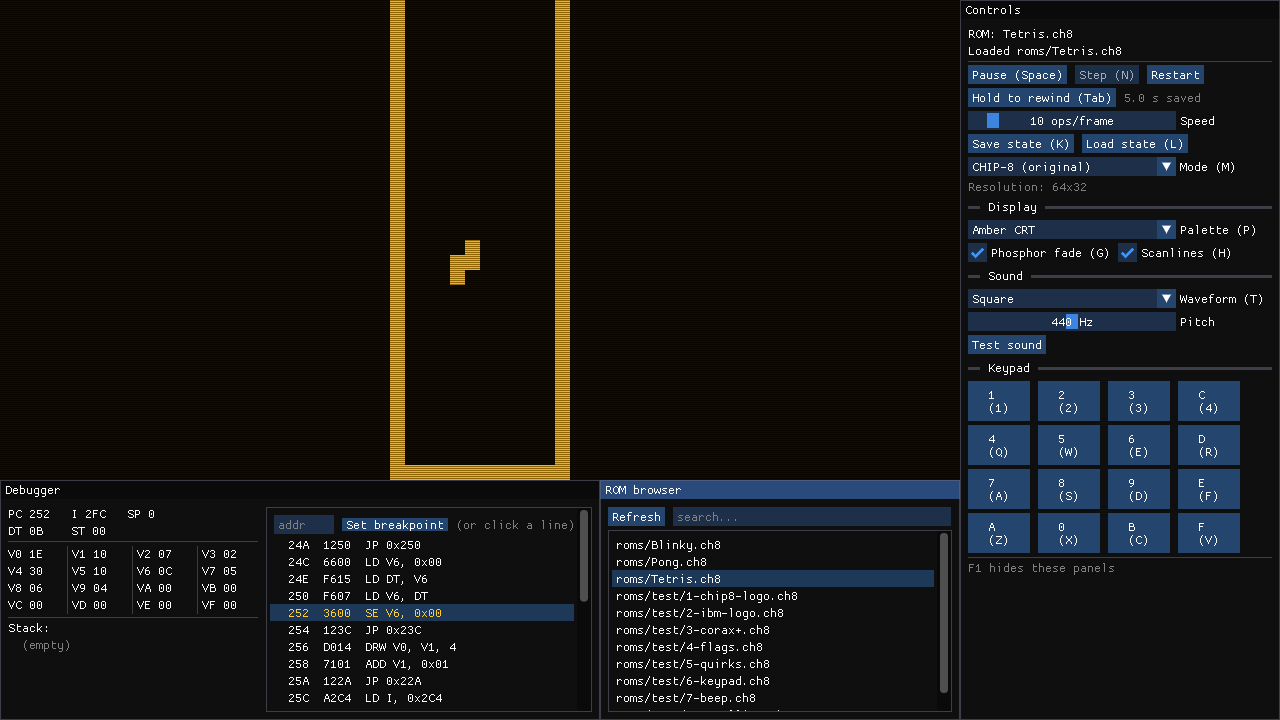
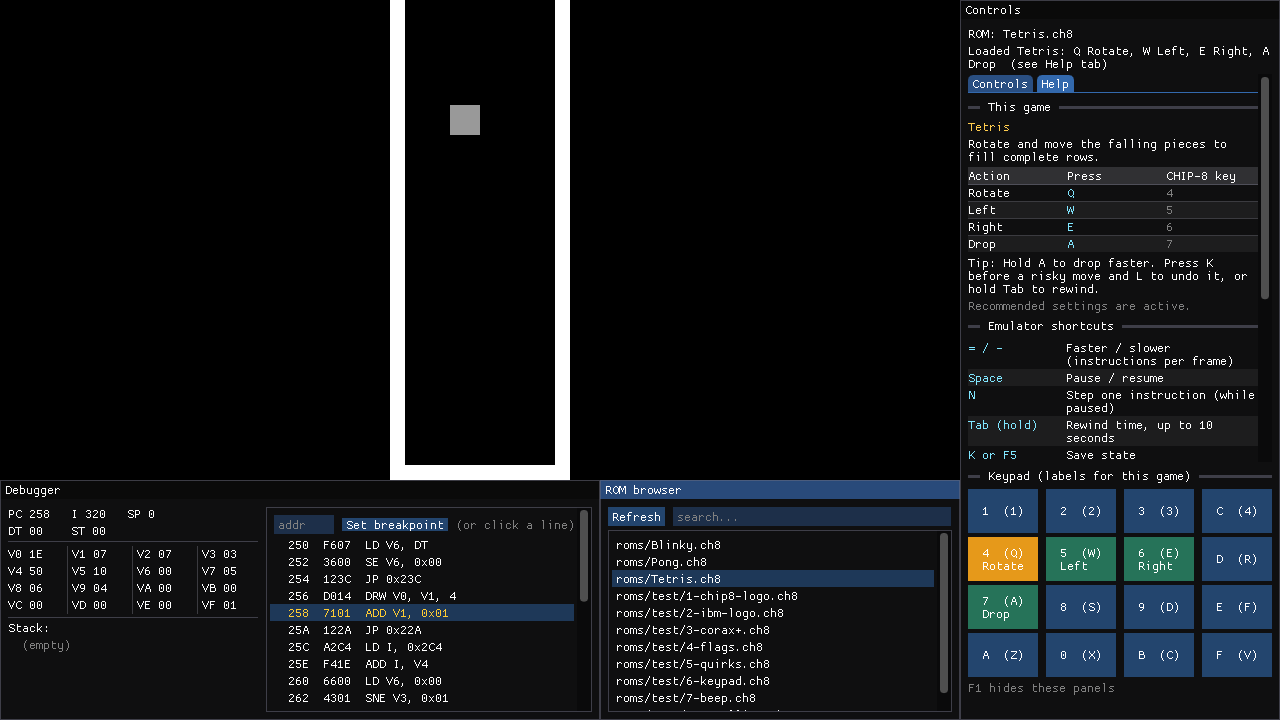
docs: document Help tab, update screenshot

diff --git a/README.md b/README.md
@@ -9,7 +9,7 @@ savestates, colour palettes, rewind, a CRT effect, selectable sound waveforms, a
 (Dear ImGui) with a live debugger, breakpoints, a clickable keypad and a ROM browser.
 Automated tests run on Linux, macOS and Windows on every push.
 
-![Emulator with the control panel: Tetris in the Amber CRT palette with scanlines, live debugger and ROM browser](docs/screenshot.png)
+![Emulator with the control panel: Tetris with the Help tab, per-game keypad labels, live debugger and ROM browser](docs/screenshot.png)
 
 **Team:** <!-- TODO: Name (GitHub @username) for all 4 members -->
 
@@ -81,7 +81,7 @@ Start in SUPER-CHIP mode with `./chip8 roms/Blinky.ch8 --schip` (Blinky needs it
 the panels (classic 640×320 window) with `--classic`.
 Everything in the table can also be done with the mouse in the control panel.
 
-Game tips — **Pong:** left paddle `1`/`Q`, right paddle `4`/`R`. **Tetris:** `Q` rotate, `W` left, `E` right, `A` drop.
+Game tips (also shown in the in-app Help tab) — **Pong:** left paddle `1`/`Q`, right paddle `4`/`R`. **Tetris:** `Q` rotate, `W` left, `E` right, `A` drop. **Blinky:** `3` up, `E` down, `A` left, `S` right.
 
 ---
 
@@ -211,7 +211,13 @@ drawn with SDL's renderer. `F1` shows/hides it.
 - **Controls:** pause/step/restart, hold-to-rewind, speed slider, save/load, mode, palette (with
   colour pickers for Custom), CRT options, waveform and pitch, test beep.
 - **Keypad:** the 16 CHIP-8 keys in their original 4×4 layout. They light up when pressed, and can be
-  held with the mouse.
+  held with the mouse. For known games each key is **labelled with what it does in that game**
+  (e.g. "Rotate" on Q in Tetris).
+- **Help tab:** for the loaded game, a table of *action → keyboard key → CHIP-8 key*, tips, and an
+  **Apply recommended settings** button (e.g. Blinky: SUPER-CHIP mode, speed 30); below that, every
+  emulator shortcut and the keyboard ↔ keypad map. It opens automatically when a known game loads.
+  The per-game key assignments (in `src/games.h`) were found by reading each ROM's key-check
+  instructions (`EX9E`/`EXA1`) in the disassembler and seeing what the code does next.
 - **Debugger:** live registers, stack, and a disassembly listing with the current instruction
   highlighted. **Breakpoints:** click a line (or type an address) and the emulator pauses when PC
   reaches it.
